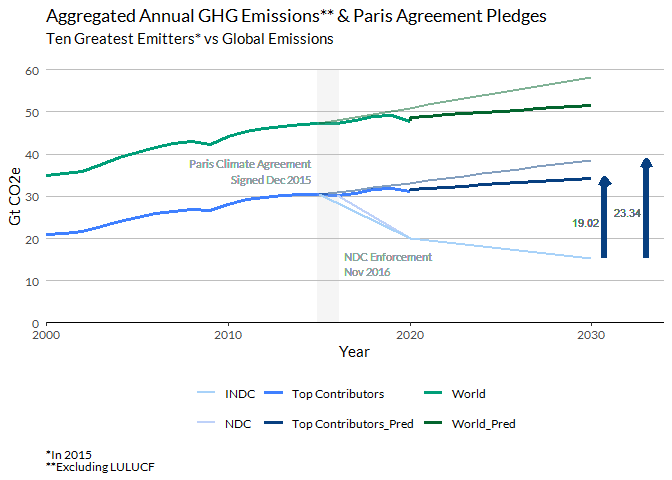
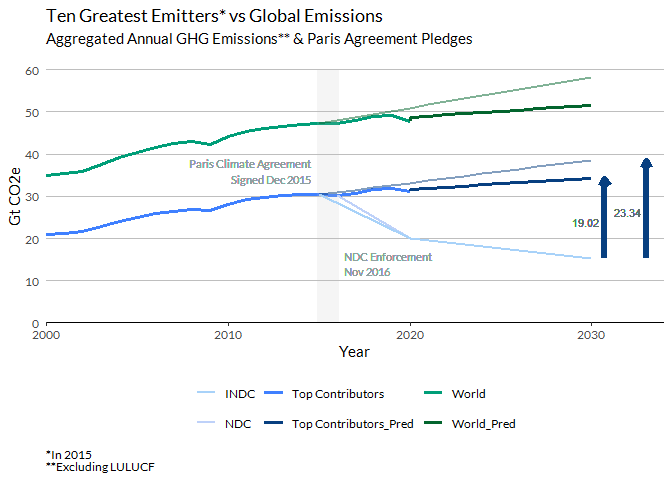
,

Changed region(s): [[0.0625, 0.0, 0.8125, 0.0938]]

diff --git a/Missed-Benchmarks.md b/Missed-Benchmarks.md
@@ -722,8 +722,8 @@ Nov 2016",
         legend.title = element_blank()) +
   labs(x = "Year",
        y = "Gt CO2e",
-       title = "Aggregated Annual GHG Emissions** & Paris Agreement Pledges",
-       subtitle = "Ten Greatest Emitters* vs Global Emissions\n",
+       subtitle = "Aggregated Annual GHG Emissions** & Paris Agreement Pledges\n",
+       title = "Ten Greatest Emitters* vs Global Emissions",
        caption = "*In 2015
 **Excluding LULUCF",
        fill = "Country")
